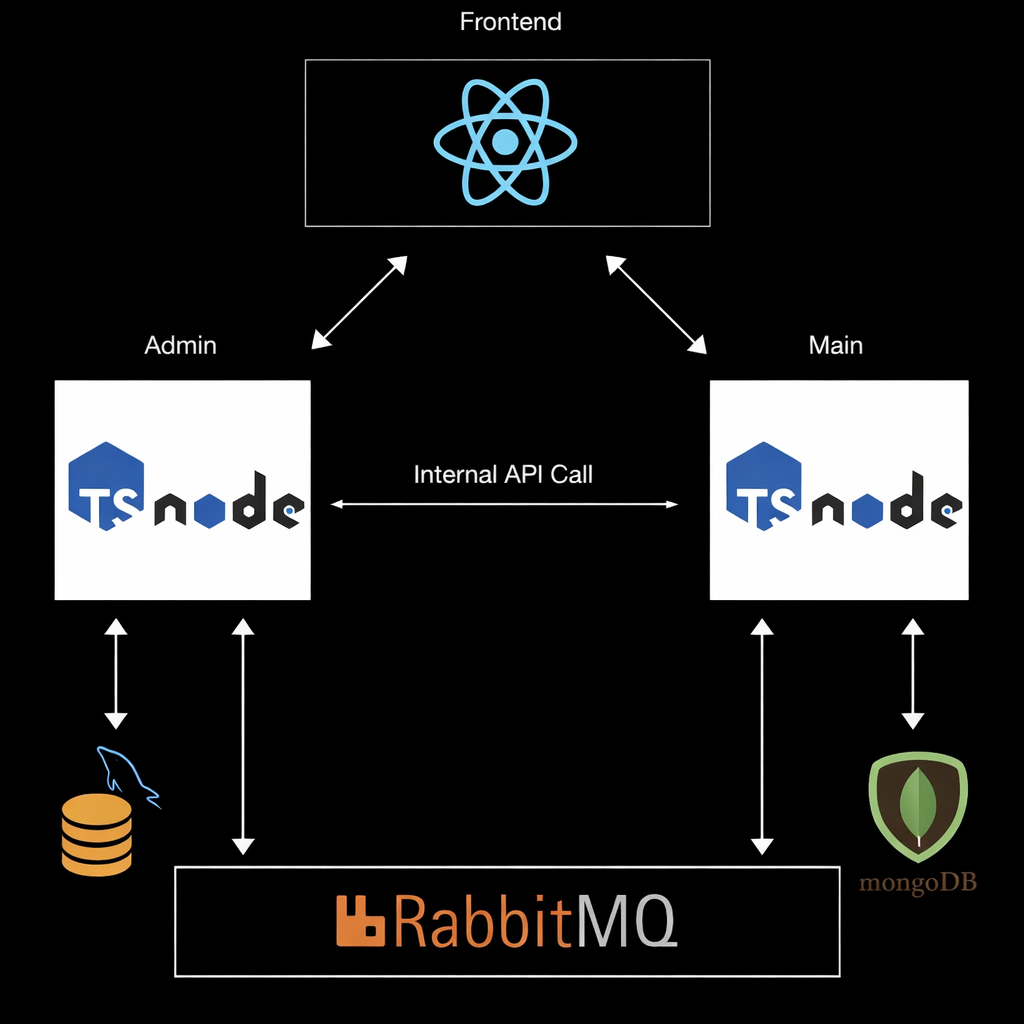
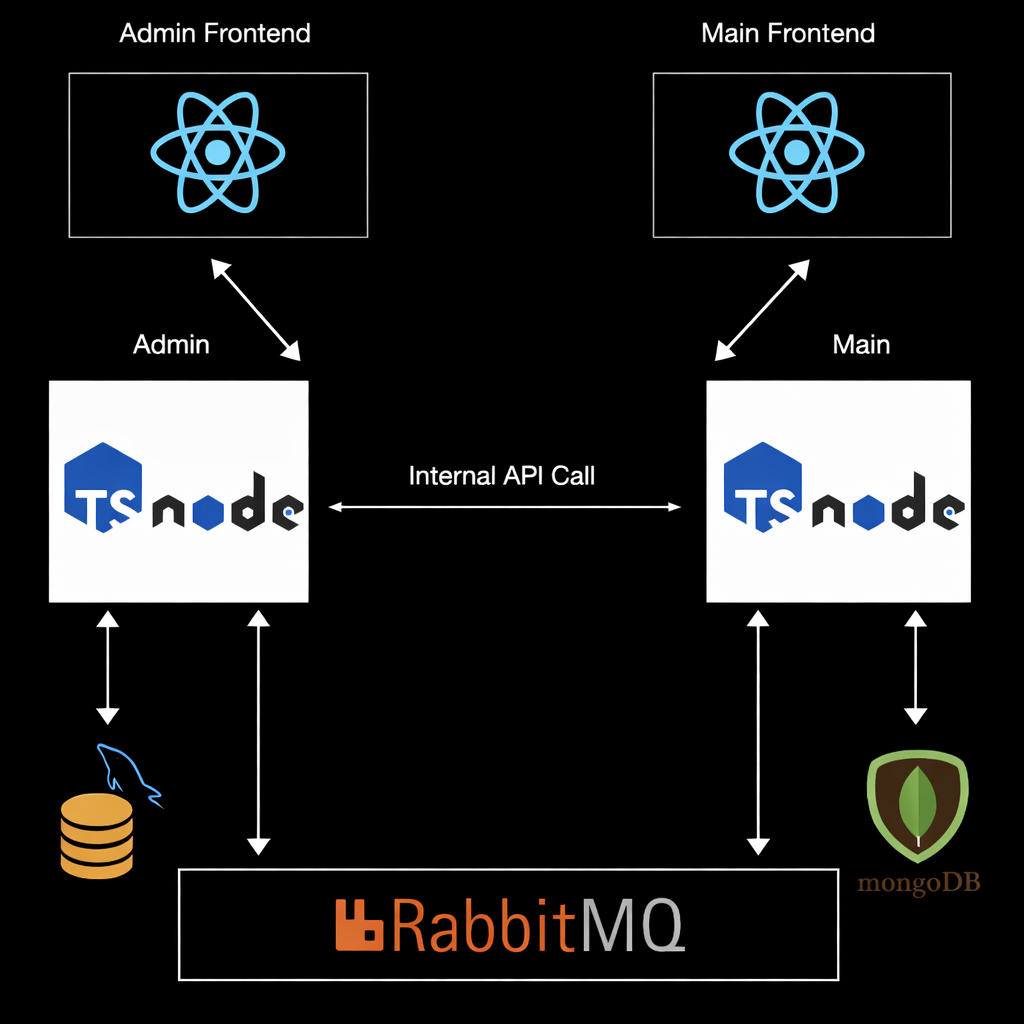
readme updated

diff --git a/README.md b/README.md
@@ -3,17 +3,17 @@
 Event-driven microservices demo using RabbitMQ, Node.js and TypeORM.  
 Two backend services with different databases and two React frontends:
 
-- Admin service (MySQL) —  CRUD for products and publishes events to RabbitMQ. See [admin/src/app.ts](admin/src/app.ts). Uses [`admin.myDataSource`](admin/app-data-source.ts) and the entity [`admin.Product`](admin/src/entity/product.ts).
-- Main service (MongoDB) — read-only view built from events consumed from RabbitMQ. See [main/src/app.ts](main/src/app.ts). Uses [`main.myDataSource`](main/app-data-source.ts) and the entity [`main.Product`](main/src/entity/product.ts).
-- Admin frontend — React app for managing products: [admin-client/package.json](admin-client/package.json).
-- Main frontend — React client for customers: [main-client/package.json](main-client/package.json).
+- Admin service (MySQL) —  CRUD for products and publishes events to RabbitMQ. 
+- Main service (MongoDB) — read-only view built from events consumed from RabbitMQ.
+- Admin frontend — React app for managing products.
+- Main frontend — React client for customers.
 
 ## Architecture overview
 - Event-driven architecture using RabbitMQ as the message broker. The Admin service writes to MySQL and sends events (product_created, product_updated, product_deleted). The Main service consumes those events and stores a read model in MongoDB for fast reads. Both services expose REST endpoints. Two separate React frontends consume the services:
   - Admin frontend communicates with Admin service
   - Main frontend communicates with Main service
 
-[![Image-Jan-5-2026-03-18-18-PM.png](https://i.postimg.cc/4yTRTBSf/Image-Jan-5-2026-03-18-18-PM.png)](https://postimg.cc/ZBjM8Fm2)
+[![Image-Jan-5-2026-03-18-18-PM.png](https://i.postimg.cc/X7GdPx08/Image-Jan-5-2026-03-18-18-PM.png)](https://postimg.cc/QHDF9QC9)
 
 ## Screenshots
 
